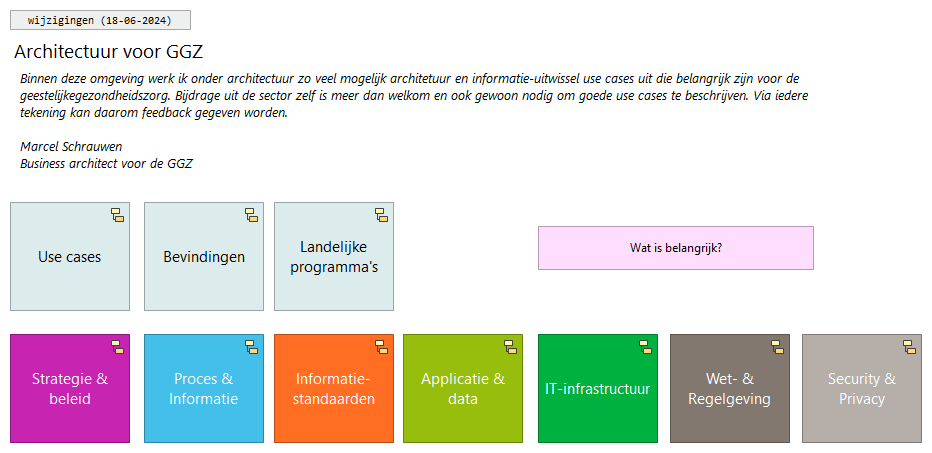
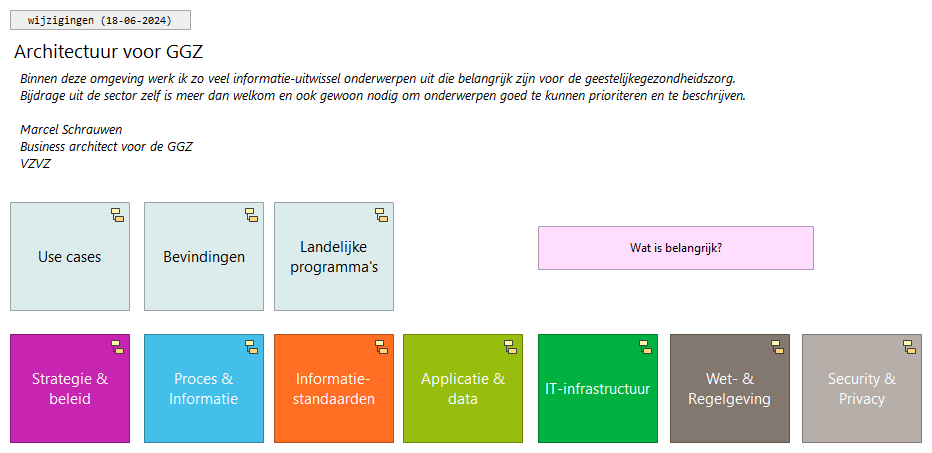
html publicatie
paar foutjes gecorrigeerd

Changed region(s): [[0.0, 0.1545, 0.8712, 0.3709]]

diff --git a/docs/id-1b2b3ea8c1b54bb4873512ca569a6986/objects/id-94a7021784d84204ada036ba455a8b56.html b/docs/id-1b2b3ea8c1b54bb4873512ca569a6986/objects/id-94a7021784d84204ada036ba455a8b56.html
@@ -47,7 +47,8 @@
 				<!-- Tab panes -->
 				<div class="tab-content">
 					<div role="tabpanel" class="tab-pane active" id="documentation">
-						<div class="convertlinks documentation" style="white-space:pre-wrap">Binnen deze omgeving werk ik onder architectuur zo veel mogelijk architetuur en informatie-uitwissel use cases uit die belangrijk zijn voor de geestelijkegezondheidszorg. Bijdrage uit de sector zelf is meer dan welkom en ook gewoon nodig om goede use cases te beschrijven. Via iedere tekening kan daarom feedback gegeven worden.
+						<div class="convertlinks documentation" style="white-space:pre-wrap">Binnen deze omgeving werk ik zo veel informatie-uitwissel onderwerpen uit die belangrijk zijn voor de geestelijkegezondheidszorg. 
+Bijdrage uit de sector zelf is meer dan welkom en ook gewoon nodig om onderwerpen goed te kunnen prioriteren en te beschrijven. 
 
 Marcel Schrauwen
 Business architect voor de GGZ
